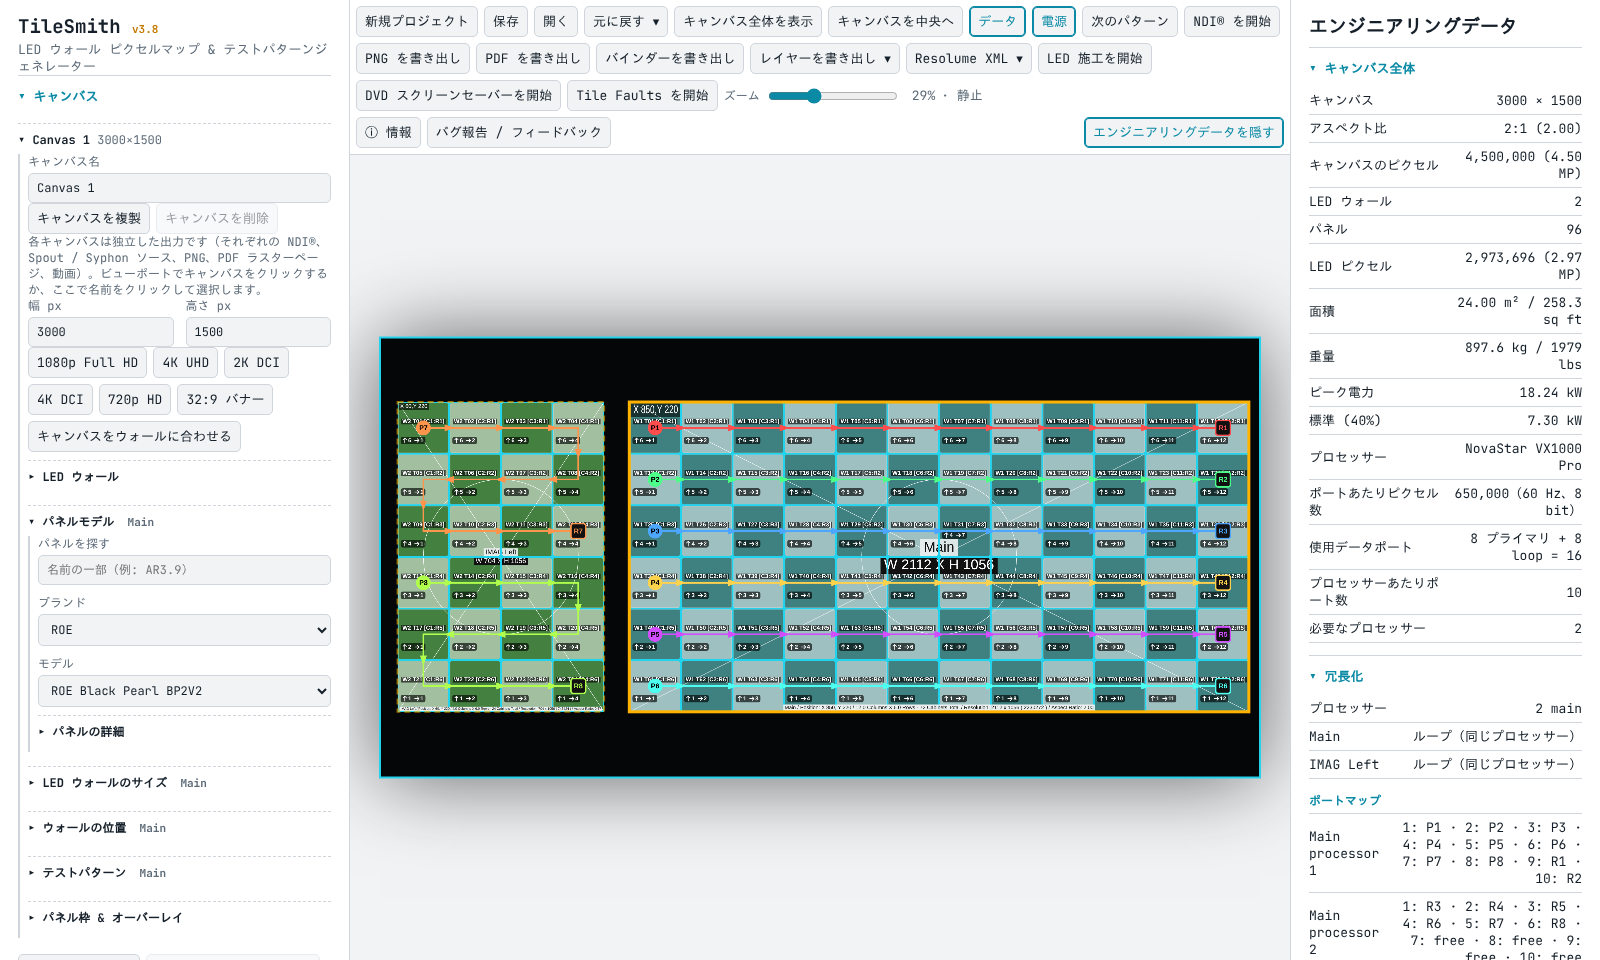
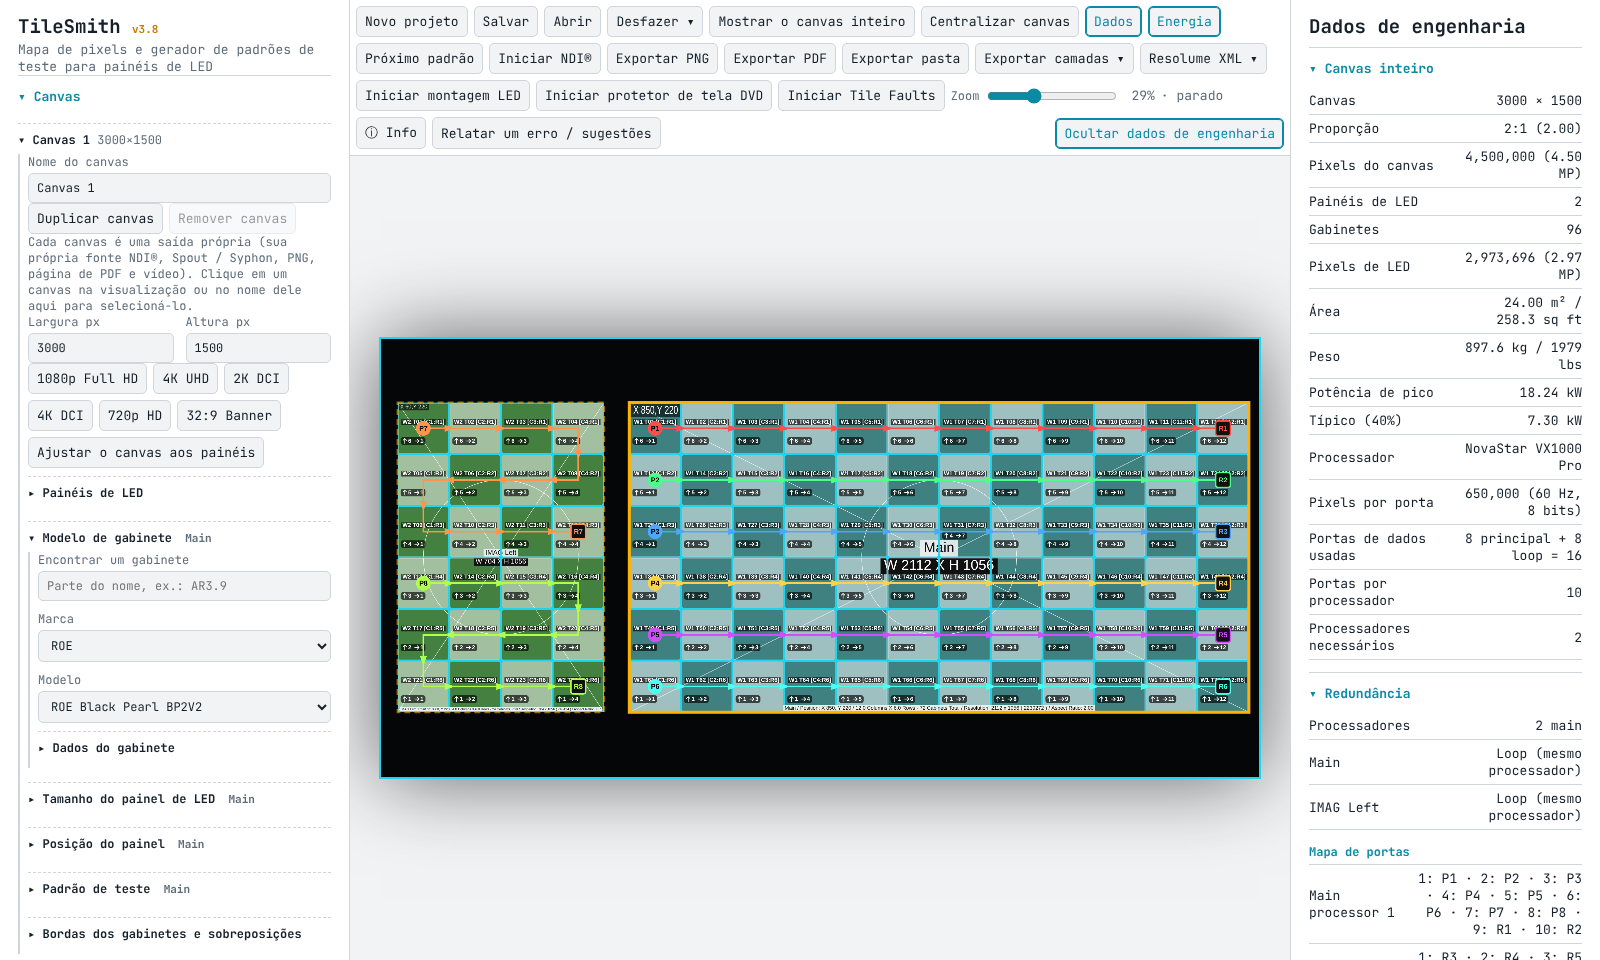
README: languages screenshot in Portuguese (Brazil)
Claude-Session: https://claude.ai/code/session_01RrKeqhFDbmAcbUDhBV2pmP

diff --git a/manual-src/make_readme_features.py b/manual-src/make_readme_features.py
@@ -77,9 +77,9 @@ async def main():
         await pg.fill('#tFind', 'AR3.9'); await pg.wait_for_timeout(300)
         await shot(pg, 'tile-catalog', "()=>{}", ['Tile model'], 'Tile model')
         await pg.close(); pg = await fresh()
-        # the whole UI in Japanese, with the Canvases and Tile model menus open
+        # the whole UI in Portuguese (Brazil), with the Canvases and Tile model menus open
         await pg.evaluate(OPEN, ['Canvases', 'Tile model'])
-        await shot(pg, 'languages', "()=>{setLang('ja');sync()}", None, wait=800)
+        await shot(pg, 'languages', "()=>{setLang('pt-BR');sync()}", None, wait=800)
         await pg.close()
         # Info > Updates after Check for updates finds a newer release (GitHub mocked, no network needed)
         nxt = VERSION or '0'

diff --git a/README.md b/README.md
@@ -56,7 +56,7 @@ https://github.com/user-attachments/assets/3fe2f407-80e1-4f42-a2f5-a2593f6d69d9
 <tr>
 <td width="50%" valign="top">
 
-<img src="docs/screenshots/features/languages.png" alt="TileSmith in Japanese">
+<img src="docs/screenshots/features/languages.png" alt="TileSmith in Portuguese (Brazil)">
 
 <b>Ten languages.</b> German, French, Italian, Dutch, Simplified Chinese, Japanese and Korean join English, Español and Português (Brasil). Pick one under ⓘ Info › Preferences; a first visit uses your browser's language.
 
